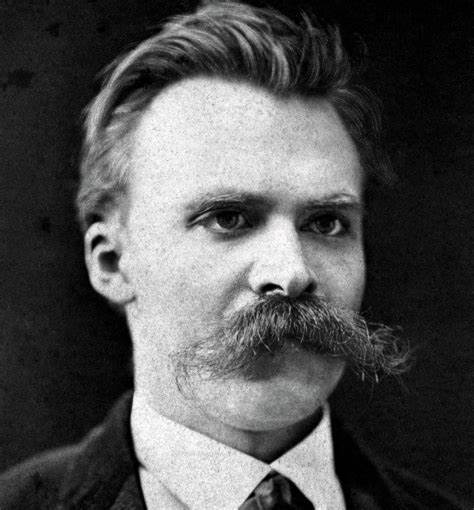
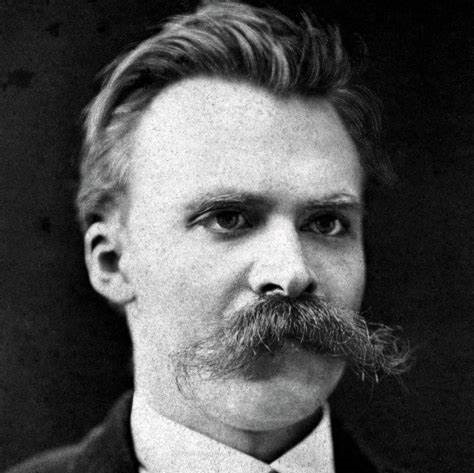
tamanhos

Changed region(s): [[0.0, 0.0296, 0.8861, 1.0], [0.7679, 0.9767, 0.7975, 1.0]]

diff --git a/style.css b/style.css
@@ -24,8 +24,8 @@ h1 {
 /* ===== Tags ===== */
 
 img#pensador {
-    width: 300px;
-    height: 300px;
+    width: 250px;
+    height: 250px;
     border-radius: 50%;
     display: block;
     margin: 30px auto;
@@ -36,11 +36,9 @@ img#pensador {
 
 
 article.pensador {
-    display: flex;
-    justify-content: space-around;
+    display: inline;
 
-    width: 250px;
-    height: 250px;
+    width: 22%;
     padding: 10px;
     margin: 10px;
 
@@ -49,8 +47,7 @@ article.pensador {
 }
 
 article.pensador img {
-    width: 200px;
-    height: 200px;
+    width: 90%;
 
     display: block;
     margin: auto;
@@ -63,12 +60,11 @@ article.pensador a {
 }
 
 article.pensador p {
-    margin: 10px;
-
+    margin: 7px 0px;
     text-align: center;
     text-indent: 0%;
 
-    font-size: 2em;
+    font-size: 1.1em;
 
     color: black;
 }
@@ -91,7 +87,7 @@ article.pensador p {
 
 section.pensamentos p {
     padding: 23px;
-    width: 90%;
+    width: 85%;
     margin: 25px 0;
 
     color: black;
@@ -113,16 +109,12 @@ div.center {
 
     padding: 10px;
 
-    width: 100%;
-}
-
-div.center * {
-    margin-right: auto;
-    margin-left: auto;
+    width: 95%;
 }
 
 div.center article.pensador {
     display: inline-block;
+    margin: 10px 10px;
 }
 
 
